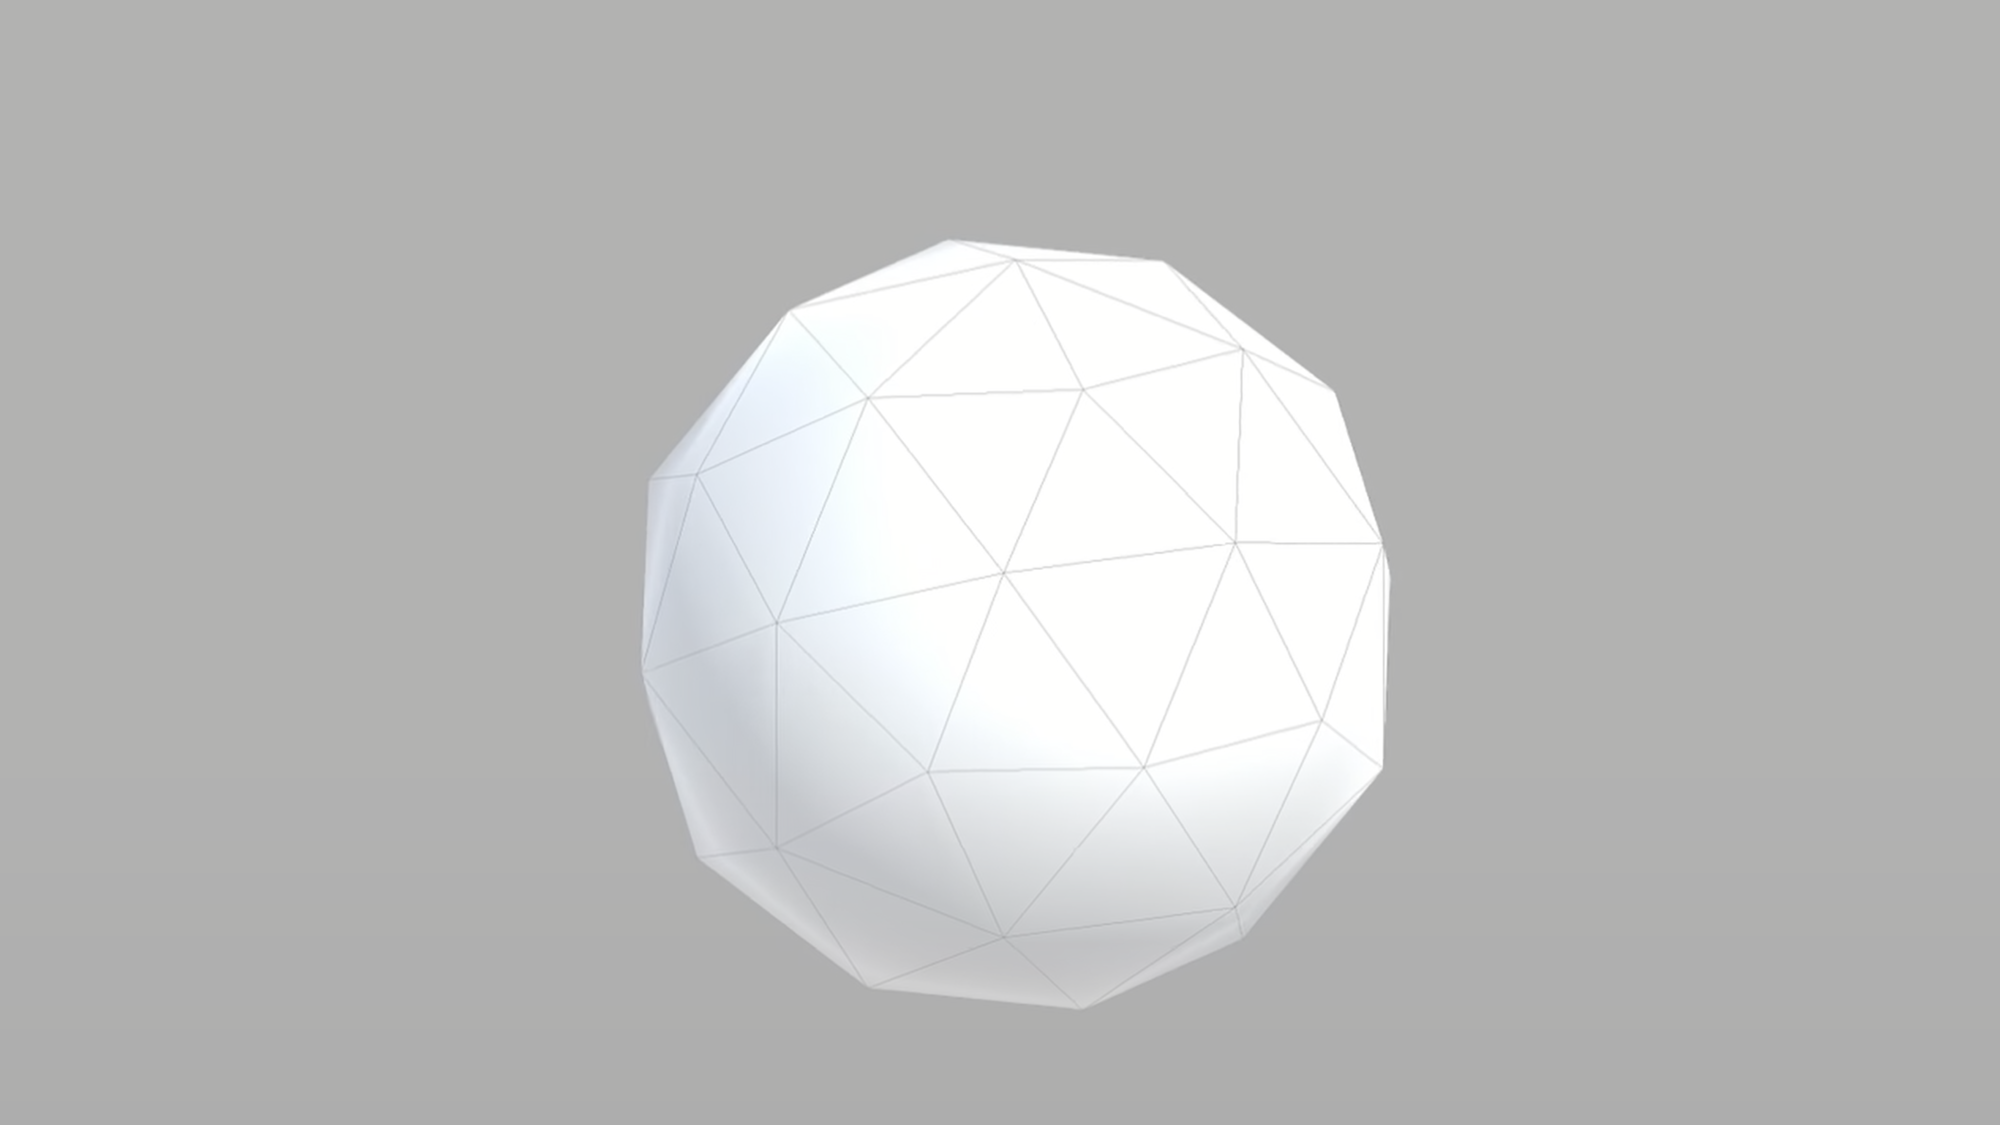
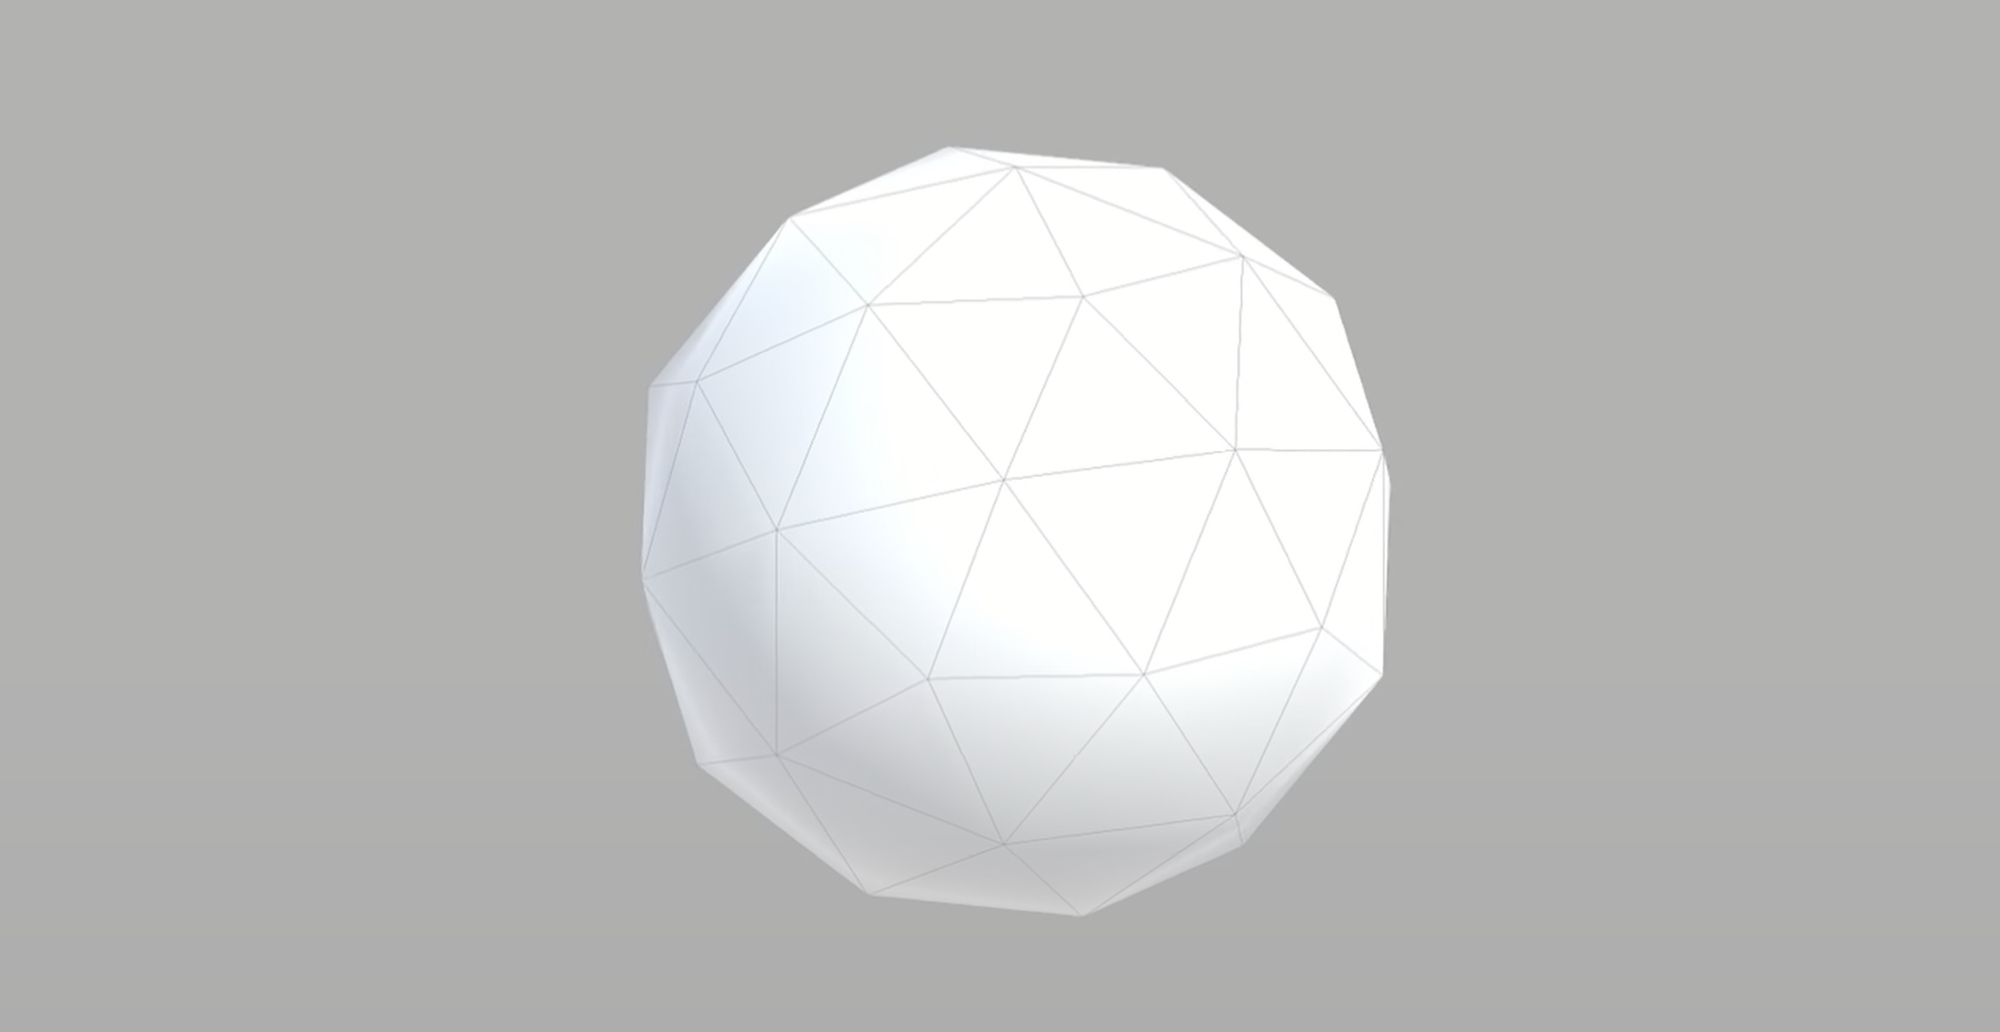
Updated blog pages
- Added images to choosing-a-sphere.vue and developing-my-portfolio.vue
- Added a proper conclusion to developing-my-portfolio.vue

diff --git a/pages/developing-my-portfolio.vue b/pages/developing-my-portfolio.vue
@@ -22,13 +22,17 @@
 			can summarize the whole process in a couple of sentences the actual process went through many more
 			trials and tribulations like any good programming project.
 		</p>
+		<div class="img-group">
+			<div class="img-wrapper"><expandable-image src="/developing-my-portfolio/planet-red.png" alt="Red Planet" /></div>
+			<div class="img-wrapper"><expandable-image src="/developing-my-portfolio/planet-gold.png" alt="Gold Planet" /></div>
+		</div>
 
 
 		<h2 id="creating-the-sphere">Creating the Sphere</h2>
 		<p>
 			Creating the sphere was the first challenge to overcome. There are many different ways of arranging vertices
 			and faces to create a sphere, each coming with their own advantages and disadvantages. I went with a
-			cube-based sphere where I start with a cube and then morph it to make a sphere. Read how I choose which type
+			normalized sphere where I start with a cube and then morph it to make a sphere. Read how I choose which type
 			of sphere to use <NuxtLink to="/choosing-a-sphere">here</NuxtLink>.
 		</p>
 		<p>
@@ -40,7 +44,7 @@
 		<div class="img-group">
 			<div class="img-wrapper"><expandable-image src="/developing-my-portfolio/square.png" alt="Side of cube" /><p>Tris forming square mesh</p></div>
 			<div class="img-wrapper"><expandable-image src="/developing-my-portfolio/cube.png" alt="Cube" /><p>Square meshes assembled to make a cube</p></div>
-			<div class="img-wrapper"><expandable-image src="/developing-my-portfolio/cube-sphere-wireframe.png" alt="Cube Sphere" /><p>Cube normalized into sphere</p></div>
+			<div class="img-wrapper"><expandable-image src="/developing-my-portfolio/normalized-sphere-wireframe.png" alt="Normalized Sphere" /><p>Cube normalized into sphere</p></div>
 		</div>
 
 
@@ -65,10 +69,21 @@
 			To add more detail and interest to the planet I can use multiple different noise generators with different
 			settings. I have the default noise generator that creates general waviness in the terrain. And then I have a
 			ridge noise generator which is very similar to the default noise generator, except all the noise values are
-			fed through the formula <code>(1 - |sin(x)|)^2</code>. This creates sharp ridges lines which form into mountain
-			ranges.
+			fed through the formula <code>y = (1 - |sin(x)|)^2</code>.
 		</p>
-		<expandable-image src="/developing-my-portfolio/ridge-noise.png" alt="Ridge noise generator" />
+		<div class="img-wrapper">
+			<expandable-image src="/developing-my-portfolio/ridge-formula.png" alt="Ridge formula" />
+			<p>Ridge formula shown on a graph</p>
+		</div>
+
+		<p>
+			Once the formula is graphed, you can see how it pushes the noise values into sharp peaks and wide troughs.
+			This creates sharp ridges lines which form into expansive mountain ranges.
+		</p>
+		<div class="img-wrapper">
+			<expandable-image src="/developing-my-portfolio/ridge-noise.png" alt="Ridge noise generator" />
+			<p>Planet with only the ridge noise generator applied</p>
+		</div>
 
 
 		<h2 id="colour">Colour</h2>
@@ -94,13 +109,22 @@
 		<expandable-image src="/developing-my-portfolio/coloured-planet.png" alt="Planet with colour" />
 
 
-		<h2 id="conclusion">Conclusion</h2>
+		<h2 id="final-steps">Final Steps</h2>
 		<p>
-			See how I improved the performance of the planet by over a factor of 10
-			<NuxtLink to="/improving-planet-performance"> here</NuxtLink>.
+			After completing the planet I was able to integrate it into this Vue.js site. I then later switched to using
+			Nuxt.js for performance improvements. With the framework shift and just general code optimizations I was
+			able to improve the planet generation performance by a full order of magnitude. Read my process
+			<NuxtLink to="/improving-planet-performance">here</NuxtLink>. The final thing left to do was polishing the
+			site which of course took way longer than expected.
 		</p>
 
-		<i>Add a proper conclusion.</i>
+		<h2 id="conclusion">Conclusion</h2>
+		<p>
+			Through my journey of creating a procedurally generated 3D planet that renders on a web page I've learnt
+			many things like some of the unique quirks of JavaScript and how those effect performance, and how to use
+			TypeScript in vanilla JS and in Vue.js. And I've ended up with this professional portfolio and blog site. I
+			couldn't be happier with the outcome.
+		</p>
 	</div>
 </template>
 

diff --git a/pages/choosing-a-sphere.vue b/pages/choosing-a-sphere.vue
@@ -4,8 +4,7 @@
 			<h1>Choosing a Sphere</h1>
 			<h3><span>\</span>Appropriate for a planet</h3>
 		</div>
-
-		<i>Image Here</i>
+		<expandable-image src="/choosing-a-sphere/spheres-comparison.png" alt="Spheres Comparison" />
 
 		<p class="margin-top">
 			Choosing what type of sphere to use was no easy task. I needed a sphere that had an even distribution of
@@ -34,18 +33,18 @@
 		<expandable-image src="/choosing-a-sphere/ico-sphere.png" alt="Ico Sphere" />
 
 
-		<h2 id="cube-sphere">Cube-based Sphere</h2>
+		<h2 id="normalized-sphere">Normalized Sphere</h2>
 		<p>
 			The third option is to start with a cube, and then normalize every vertices position from the center. This
 			creates a sphere has a very even distribution of detail, with only slightly higher level of detail near the
 			seams where the sides of the cube have come together. It also gives me a high granularity of detail as I can
 			divide the sides of the cube into as many faces as I'd like.
 		</p>
-		<expandable-image src="/choosing-a-sphere/cube-sphere.png" alt="Cube Sphere" />
+		<expandable-image src="/choosing-a-sphere/normalized-sphere.png" alt="Normalized Sphere" />
 
 		<h2 id="conclusion">Conclusion</h2>
 		<p>
-			Using a cube-based sphere turned out great. It satisfied all of my requirements and the math needed to
+			Using a normalized sphere turned out great. It satisfied all of my requirements and the math needed to
 			create it was fairly simple. The only downside is that there is a small artifact along the seams where they
 			sometimes just don't quite connect. There is a solution that solves the problem, which is to merge vertices
 			that are really close to each other, connecting the small gaps. However, and of course there's always a

diff --git a/layouts/blog.vue b/layouts/blog.vue
@@ -100,7 +100,7 @@ a {
 .img-group .expandable-image {
 	margin-bottom: 0;
 	max-width: 100%;
-	min-height: 75%;
+	min-height: 80%;
 }
 
 .img-group img {

diff --git a/markdown/portfolio.md b/markdown/portfolio.md
@@ -17,7 +17,7 @@ The third option is to start with a cube, and then normalize ever vertices posit
 To construct the sphere I went on side of the cube at a time, creating a grid of vertices then connecting them together into tris that then make faces. Create six of these sides and then I have a cube. Normalize each vertices position to the center and then I have a sphere.
 ![Side of cube](../static/developing-my-portfolio/square.png)
 ![Cube](../static/developing-my-portfolio/cube.png)
-![Cube Sphere](../static/developing-my-portfolio/cube-sphere-wireframe.png)
+![Cube Sphere](../static/developing-my-portfolio/normalized-sphere-wireframe.png)
 
 ## Noise
 The next step is to deform the sphere using noise. I can layer more noise with smaller scales on top to create detail. This gives me large deformations in the terrain like mountains and valleys as well as small deformations that make up the detail.
